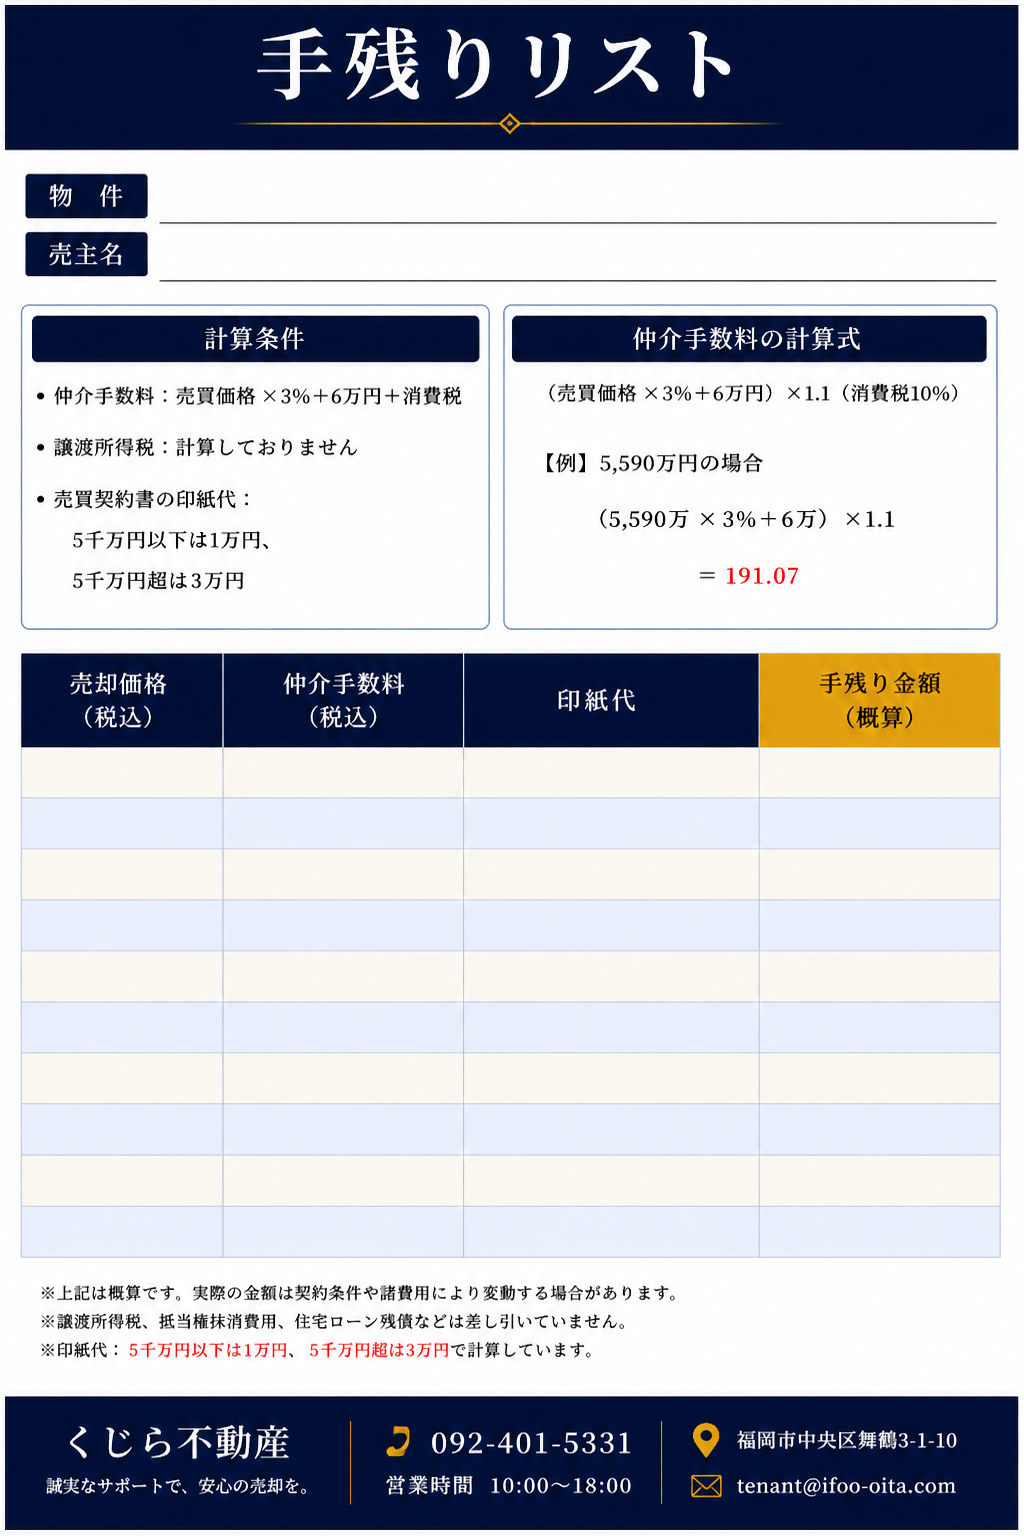
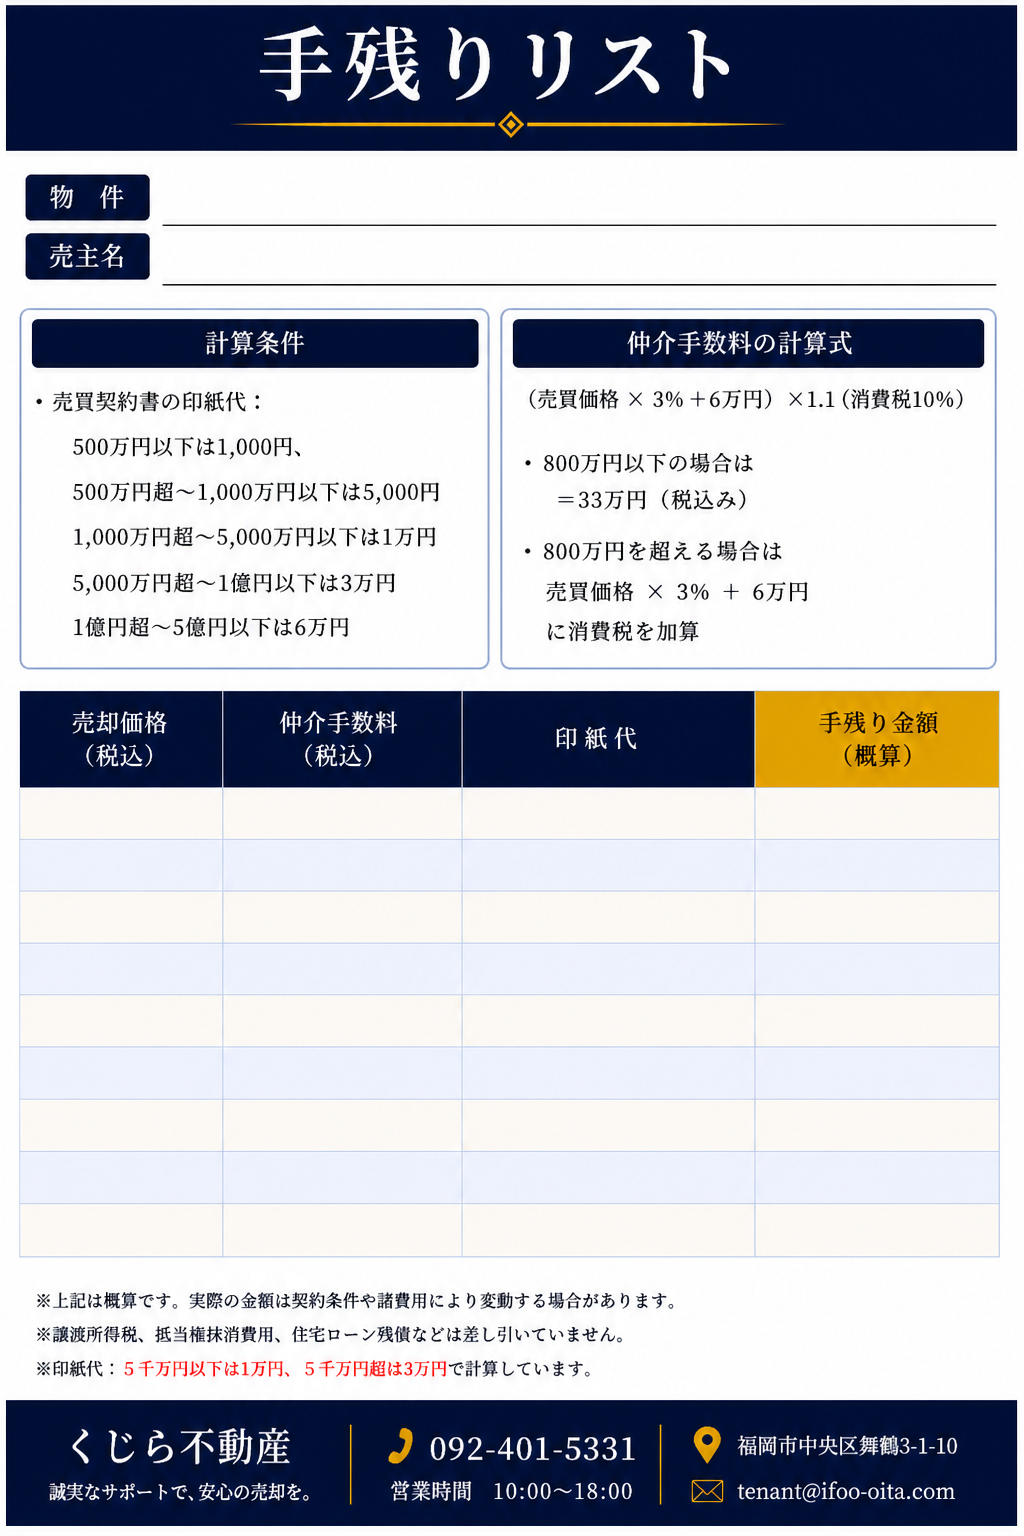
fix: template3差し替え強制反映(v=20260807b)

diff --git a/frontend/frontend/src/components/NetProceedsListModal.tsx b/frontend/frontend/src/components/NetProceedsListModal.tsx
@@ -488,7 +488,7 @@ function buildNetProceedsHtml(p: BuildHtmlParams): string {
   // taxMode='none'(なし) → template3
   // taxMode='known'(取得費明確) → template4
   const templateFile = p.taxMode === 'none'
-    ? 'template3.png?v=20260807a'
+    ? 'template3.png?v=20260807b'
     : p.taxMode === 'known'
     ? 'template4.png?v=20260807a'
     : 'template2.png?v=20260807f';
